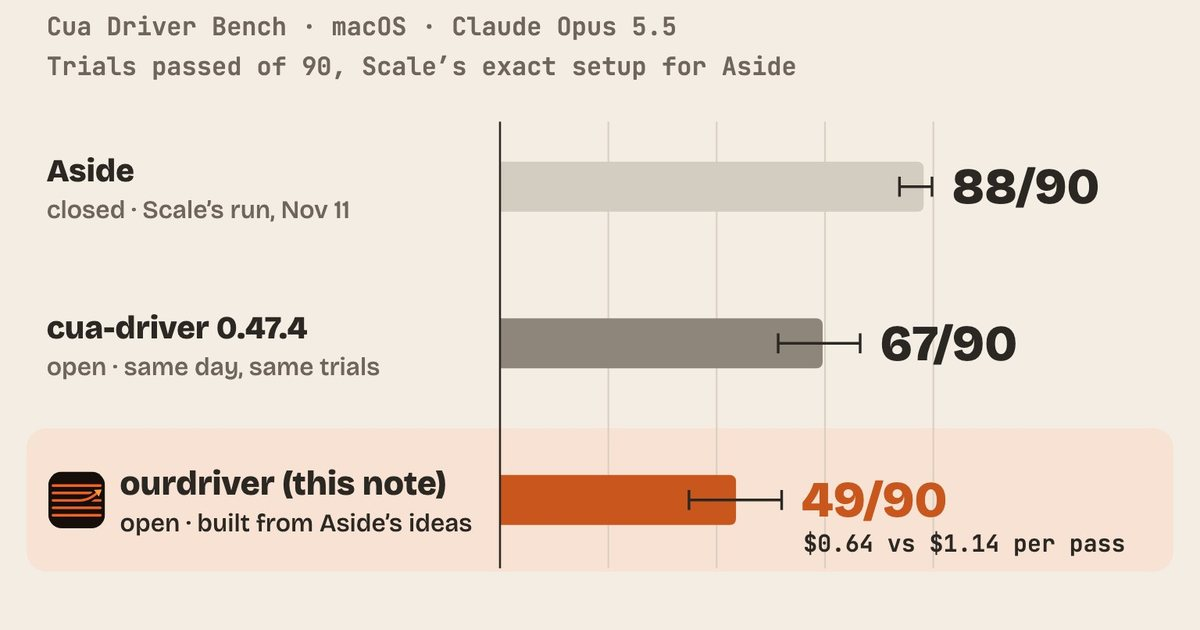
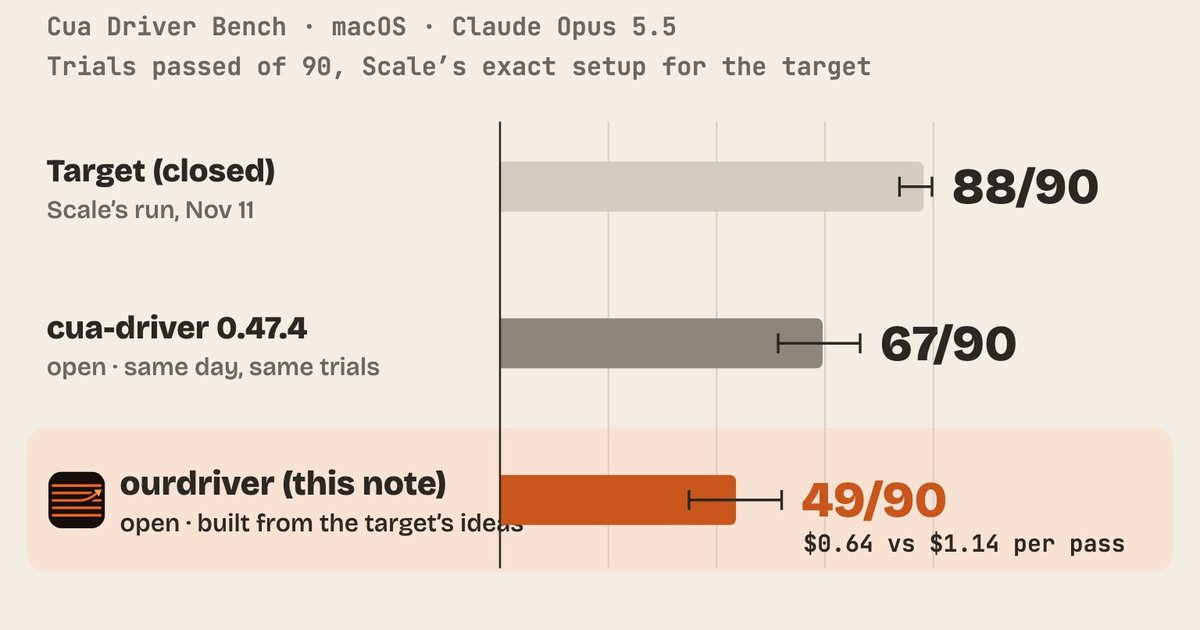
note(cua-driver): pin for Nov 15; name the closed comparison driver "the target" throughout

Changed region(s): [[0.0308, 0.2413, 0.3083, 0.3619], [0.2467, 0.8143, 0.4317, 0.8444], [0.5858, 0.0905, 0.74, 0.1206]]

diff --git a/experiments/cua-driver/report/index.html b/experiments/cua-driver/report/index.html
@@ -3,22 +3,22 @@
 <head>
 <meta charset="utf-8">
 <meta name="viewport" content="width=device-width, initial-scale=1">
-<title>An open macOS driver built from Aside’s ideas lost to cua-driver, 49 to 67 of 90 trials</title>
-<meta name="description" content="On Cua Driver Bench with Claude Opus 5.5 and Scale’s exact setup for Aside’s 88/90, an open background-first driver with one JavaScript tool passed 49 of 90 trials; cua-driver passed 67 on the same day (McNemar 1 vs 19 discordant pairs, p = 4e-5). It lost every drag and tooltip trial and took the user’s keyboard focus when it opened a pop-up menu.">
+<title>An open macOS driver built from a closed target’s ideas lost to cua-driver, 49 to 67 of 90 trials</title>
+<meta name="description" content="On Cua Driver Bench with Claude Opus 5.5 and Scale’s exact setup for the target’s 88/90, an open background-first driver with one JavaScript tool passed 49 of 90 trials; cua-driver passed 67 on the same day (McNemar 1 vs 19 discordant pairs, p = 4e-5). It lost every drag and tooltip trial and took the user’s keyboard focus when it opened a pop-up menu.">
 <!-- meta:start -->
 <link rel="canonical" href="https://albertlieyingadrian.github.io/steerlab/experiments/cua-driver/report/">
 <meta property="og:site_name" content="steerlab">
 <meta property="og:type" content="article">
-<meta property="og:title" content="An open macOS driver built from Aside’s ideas lost to cua-driver, 49 to 67 of 90 trials">
-<meta property="og:description" content="On Cua Driver Bench with Claude Opus 5.5 and Scale’s exact setup for Aside’s 88/90, an open background-first driver with one JavaScript tool passed 49 of 90 trials; cua-driver passed 67 on the same day (McNemar 1 vs 19 discordant pairs, p = 4e-5). It lost every drag and tooltip trial and took the user’s keyboard focus when it opened a pop-up menu.">
+<meta property="og:title" content="An open macOS driver built from a closed target’s ideas lost to cua-driver, 49 to 67 of 90 trials">
+<meta property="og:description" content="On Cua Driver Bench with Claude Opus 5.5 and Scale’s exact setup for the target’s 88/90, an open background-first driver with one JavaScript tool passed 49 of 90 trials; cua-driver passed 67 on the same day (McNemar 1 vs 19 discordant pairs, p = 4e-5). It lost every drag and tooltip trial and took the user’s keyboard focus when it opened a pop-up menu.">
 <meta property="og:url" content="https://albertlieyingadrian.github.io/steerlab/experiments/cua-driver/report/">
 <meta property="og:image" content="https://albertlieyingadrian.github.io/steerlab/experiments/cua-driver/report/figures/og.jpg">
 <meta property="og:image:width" content="1200">
 <meta property="og:image:height" content="630">
-<meta property="og:image:alt" content="A bar chart on a cream background: Cua Driver Bench trials passed of 90 with Claude Opus 5.5. Aside, closed, 88/90 (Scale’s run); cua-driver 0.47.4, open, 67/90 on the same day; our driver, on a tinted orange row with the steerlab logo, 49/90, with a note that it cost $0.64 per pass against $1.14. Each bar has its 95% interval.">
+<meta property="og:image:alt" content="A bar chart on a cream background: Cua Driver Bench trials passed of 90 with Claude Opus 5.5. The target, closed, 88/90 (Scale’s run); cua-driver 0.47.4, open, 67/90 on the same day; our driver, on a tinted orange row with the steerlab logo, 49/90, with a note that it cost $0.64 per pass against $1.14. Each bar has its 95% interval.">
 <meta name="twitter:card" content="summary_large_image">
-<meta name="twitter:title" content="An open macOS driver built from Aside’s ideas lost to cua-driver, 49 to 67 of 90 trials">
-<meta name="twitter:description" content="On Cua Driver Bench with Claude Opus 5.5 and Scale’s exact setup for Aside’s 88/90, an open background-first driver with one JavaScript tool passed 49 of 90 trials; cua-driver passed 67 on the same day (McNemar 1 vs 19 discordant pairs, p = 4e-5). It lost every drag and tooltip trial and took the user’s keyboard focus when it opened a pop-up menu.">
+<meta name="twitter:title" content="An open macOS driver built from a closed target’s ideas lost to cua-driver, 49 to 67 of 90 trials">
+<meta name="twitter:description" content="On Cua Driver Bench with Claude Opus 5.5 and Scale’s exact setup for the target’s 88/90, an open background-first driver with one JavaScript tool passed 49 of 90 trials; cua-driver passed 67 on the same day (McNemar 1 vs 19 discordant pairs, p = 4e-5). It lost every drag and tooltip trial and took the user’s keyboard focus when it opened a pop-up menu.">
 <meta name="twitter:image" content="https://albertlieyingadrian.github.io/steerlab/experiments/cua-driver/report/figures/og.jpg">
 <meta property="article:published_time" content="2026-11-15">
 <meta property="article:modified_time" content="2026-11-15">
@@ -27,9 +27,9 @@
 {
  "@context": "https://schema.org",
  "@type": "ScholarlyArticle",
- "headline": "An open macOS driver built from Aside’s ideas lost to cua-driver, 49 to 67 of 90 trials",
- "description": "On Cua Driver Bench with Claude Opus 5.5 and Scale’s exact setup for Aside’s 88/90, an open background-first driver with one JavaScript tool passed 49 of 90 trials; cua-driver passed 67 on the same day (McNemar 1 vs 19 discordant pairs, p = 4e-5). It lost every drag and tooltip trial and took the user’s keyboard focus when it opened a pop-up menu.",
- "abstract": "Cua Driver Bench (trycua) macOS track in Scale's AgentEnv port, Aside's exact setup: AgentEnv 0.9.1506, port 3f8210e, task pack 69b459b, Claude Code 2.1.280 headless with Skill and Read only, 45 turns, 360 s, AgentEnv computer tools hidden, Claude Opus 5.5. 18 variants x 5 runs (50 foreground, 40 background with trycua's sentinel and 8 A22 non-disturbance criteria). Open driver ourdriver 0.5.1 (Swift): accessibility tree with stable ids, background-first input (AX actions, then events posted to the app's process), one JavaScriptCore repl tool with only a computer global, a settle-and-diff after every action; developed on Haiku 5.5 (step 1 6/18, step 5 7/16 graded), frozen by sha256. Calibration: cua-driver 0.47.10 14/18 vs Scale 13/18. Final, interleaved pairs, 2 VMs: ourdriver 49/90 [0.436, 0.650] (fg 34/50, bg 15/40) vs cua-driver 0.47.4 67/90 [0.642, 0.831] (fg 45/50, bg 22/40); exact McNemar 1 vs 19, p = 4.0e-5; Aside (Scale, Nov 11) 88/90. Losses: MB-09 drag and MB-11 tooltip 0/10 vs 10/10 (process-posted events start no drag and show no tooltip); user kept keyboard focus 25/40 vs 40/40 (opening a pop-up menu took focus, IR-02 5/5). Cost at list price $31.44 vs $76.61 ($0.64 vs $1.14 per pass). Development bug fixed: WKWebView dropped AX text writes (read back, type keys), IR-04 10/10.",
+ "headline": "An open macOS driver built from a closed target’s ideas lost to cua-driver, 49 to 67 of 90 trials",
+ "description": "On Cua Driver Bench with Claude Opus 5.5 and Scale’s exact setup for the target’s 88/90, an open background-first driver with one JavaScript tool passed 49 of 90 trials; cua-driver passed 67 on the same day (McNemar 1 vs 19 discordant pairs, p = 4e-5). It lost every drag and tooltip trial and took the user’s keyboard focus when it opened a pop-up menu.",
+ "abstract": "Cua Driver Bench (trycua) macOS track in Scale's AgentEnv port, the target's exact setup: AgentEnv 0.9.1506, port 3f8210e, task pack 69b459b, Claude Code 2.1.280 headless with Skill and Read only, 45 turns, 360 s, AgentEnv computer tools hidden, Claude Opus 5.5. 18 variants x 5 runs (50 foreground, 40 background with trycua's sentinel and 8 A22 non-disturbance criteria). Open driver ourdriver 0.5.1 (Swift): accessibility tree with stable ids, background-first input (AX actions, then events posted to the app's process), one JavaScriptCore repl tool with only a computer global, a settle-and-diff after every action; developed on Haiku 5.5 (step 1 6/18, step 5 7/16 graded), frozen by sha256. Calibration: cua-driver 0.47.10 14/18 vs Scale 13/18. Final, interleaved pairs, 2 VMs: ourdriver 49/90 [0.436, 0.650] (fg 34/50, bg 15/40) vs cua-driver 0.47.4 67/90 [0.642, 0.831] (fg 45/50, bg 22/40); exact McNemar 1 vs 19, p = 4.0e-5; the target (Scale, Nov 11) 88/90. Losses: MB-09 drag and MB-11 tooltip 0/10 vs 10/10 (process-posted events start no drag and show no tooltip); user kept keyboard focus 25/40 vs 40/40 (opening a pop-up menu took focus, IR-02 5/5). Cost at list price $31.44 vs $76.61 ($0.64 vs $1.14 per pass). Development bug fixed: WKWebView dropped AX text writes (read back, type keys), IR-04 10/10.",
  "url": "https://albertlieyingadrian.github.io/steerlab/experiments/cua-driver/report/",
  "mainEntityOfPage": "https://albertlieyingadrian.github.io/steerlab/experiments/cua-driver/report/",
  "image": "https://albertlieyingadrian.github.io/steerlab/experiments/cua-driver/report/figures/og.jpg",
@@ -59,7 +59,7 @@
  "dateModified": "2026-11-15",
  "inLanguage": "en",
  "isAccessibleForFree": true,
- "keywords": "computer use, computer-use agent, macOS, accessibility, Cua Driver Bench, cua-driver, Aside, AgentEnv, Claude Opus 5.5, background agents, benchmark, McNemar test, negative result",
+ "keywords": "computer use, computer-use agent, macOS, accessibility, Cua Driver Bench, cua-driver, AgentEnv, Claude Opus 5.5, background agents, benchmark, McNemar test, negative result",
  "isPartOf": {
   "@type": "CollectionPage",
   "name": "steerlab research",
@@ -105,12 +105,12 @@
 
 <article>
   <p class="eyebrow"><a href="../../">← Research</a><span class="sep">·</span>Experiments<span class="sep">·</span><time datetime="2026-11-15">Nov 15, 2026</time></p>
-  <h1>An open macOS driver built from Aside’s ideas lost to cua-driver, 49 to 67 of 90 trials</h1>
-  <p class="dek ruled">A computer-use driver sits between a model and the apps on a Mac: it reads the screen out to the model and turns the model’s choices into clicks and keystrokes. On Cua Driver Bench, Aside’s closed driver let Claude Opus 5.5 finish 88 of 90 trials. We built an open driver from the ideas Aside describes and ran it on Scale’s exact setup for that score, beside cua-driver on the same day. Ours passed 49; cua-driver passed 67.</p>
+  <h1>An open macOS driver built from a closed target’s ideas lost to cua-driver, 49 to 67 of 90 trials</h1>
+  <p class="dek ruled">A computer-use driver sits between a model and the apps on a Mac: it reads the screen out to the model and turns the model’s choices into clicks and keystrokes. On Cua Driver Bench, a closed driver, here called the target, let Claude Opus 5.5 finish 88 of 90 trials. We built an open driver from the ideas the target describes and ran it on Scale’s exact setup for that score, beside cua-driver on the same day. Ours passed 49; cua-driver passed 67.</p>
 
   <figure class="hero whole">
-    <img src="figures/hero.jpg" alt="A bar chart on a cream background: Cua Driver Bench trials passed of 90 with Claude Opus 5.5. Aside, closed, 88/90 (Scale’s run); cua-driver 0.47.4, open, 67/90 on the same day; our driver, on a tinted orange row with the steerlab logo, 49/90, with a note that it cost $0.64 per pass against $1.14. Each bar has its 95% interval." width="1536" height="1024">
-    <figcaption>Cover: trials passed of 90 on Cua Driver Bench with Claude Opus 5.5, each bar from zero with its 95% Clopper-Pearson interval. Aside’s 88/90 is Scale’s published run; cua-driver’s 67/90 and ours (orange) are this note’s same-day paired run. The one measure ours wins, cost per pass at list price, is printed under its count. Drawn by <a href="../make_cover.py">make_cover.py</a>.</figcaption>
+    <img src="figures/hero.jpg" alt="A bar chart on a cream background: Cua Driver Bench trials passed of 90 with Claude Opus 5.5. The target, closed, 88/90 (Scale’s run); cua-driver 0.47.4, open, 67/90 on the same day; our driver, on a tinted orange row with the steerlab logo, 49/90, with a note that it cost $0.64 per pass against $1.14. Each bar has its 95% interval." width="1536" height="1024">
+    <figcaption>Cover: trials passed of 90 on Cua Driver Bench with Claude Opus 5.5, each bar from zero with its 95% Clopper-Pearson interval. The target’s 88/90 is Scale’s published run; cua-driver’s 67/90 and ours (orange) are this note’s same-day paired run. The one measure ours wins, cost per pass at list price, is printed under its count. Drawn by <a href="../make_cover.py">make_cover.py</a>.</figcaption>
   </figure>
 
   <dl class="meta">
@@ -125,7 +125,7 @@
     <summary>Summary: the short answer and the key results</summary>
     <section class="key answer" aria-labelledby="in-short">
     <p class="summary-label" id="in-short">In short</p>
-    <p><strong>Can an open macOS driver built from Aside’s published ideas match Aside’s 88 of 90 on Cua Driver Bench?</strong></p>
+    <p><strong>Can an open macOS driver built from the target’s published ideas match the target’s 88 of 90 on Cua Driver Bench?</strong></p>
     <p>Not this one. With Claude Opus 5.5 on Scale’s exact setup, our driver passed 49 of 90 trials [0.44, 0.65], and cua-driver passed 67 of 90 [0.64, 0.83] on the same day and the same trials. Of the 20 trials where the two disagreed, cua-driver won 19 (exact McNemar p = 4×10⁻⁵). The losses have two causes. Our driver sends every click, drag and hover to the app’s process instead of moving the real pointer, which keeps the user undisturbed but can never start a drag or show a tooltip: it failed all 10 drag and tooltip trials that cua-driver passed. And choosing an item in a pop-up menu opened the menu, which takes the keyboard from whatever window the user is typing in: our driver kept the user’s keyboard focus in 25 of 40 background trials, cua-driver in 40 of 40. It was cheaper: $0.64 per pass at list price against $1.14.</p>
     </section>
 
@@ -135,7 +135,7 @@
       <table>
         <thead><tr><th>What we tested</th><th>Result</th><th>Compared with</th></tr></thead>
         <tbody>
-          <tr class="hl"><td>Our driver with Opus 5.5, Scale’s Aside setup, 90 trials</td><td><strong>49/90</strong> [0.436, 0.650]; foreground 34/50, background 15/40</td><td>Aside (Scale’s run, Nov 11): 88/90 [0.922, 0.997]</td></tr>
+          <tr class="hl"><td>Our driver with Opus 5.5, Scale’s setup for the target, 90 trials</td><td><strong>49/90</strong> [0.436, 0.650]; foreground 34/50, background 15/40</td><td>The target (Scale’s run, Nov 11): 88/90 [0.922, 0.997]</td></tr>
           <tr><td>Against cua-driver on the same day and the same 90 trials</td><td><strong>cua-driver is better:</strong> 67/90 [0.642, 0.831]; of 20 disagreeing pairs, 19 went to cua-driver (exact McNemar p = 4.0×10⁻⁵)</td><td>Scale’s cua-driver runs: 67/90 (0.38.0) and 62/90 (0.47.10)</td></tr>
           <tr><td>Drag and tooltip, foreground (MB-09, MB-11)</td><td><strong>0/10</strong>: events posted to the app’s process start no drag and show no tooltip</td><td>cua-driver: 10/10</td></tr>
           <tr><td>Did the user keep keyboard focus? (40 background trials)</td><td><strong>25/40</strong>; the losses followed a pop-up choice, a permission sheet or Chrome</td><td>cua-driver: 40/40</td></tr>
@@ -150,9 +150,9 @@
 
   <h2 id="introduction"><span class="num">01</span>Introduction</h2>
   <p>Ask a model to set the Priority of a reorder form to “Medium” while you keep typing in another window. A careful driver picks the item without opening the menu, and you never notice. Ours opened the menu, and for about a second your keystrokes went nowhere. In IR-02, a four-field form with one pop-up, that happened in all five background runs, and each one failed for it.</p>
-  <p><strong>What is known.</strong> Scale ran Cua Driver Bench on its AgentEnv harness with Claude Opus 5.5. Aside’s driver passed 88 of 90 trials; the open <a href="https://github.com/trycua/cua">cua-driver</a> passed 67 of 90 (version 0.38.0) and 62 of 90 (0.47.10). Aside’s driver is closed, but its public descriptions name the ideas behind it: read apps through the accessibility tree rather than pixels, act through accessibility before events, work in the background, give the model one JavaScript tool instead of many small ones, and report what changed after each action.</p>
+  <p><strong>What is known.</strong> Scale ran Cua Driver Bench on its AgentEnv harness with Claude Opus 5.5. A closed driver, the target, passed 88 of 90 trials; the open <a href="https://github.com/trycua/cua">cua-driver</a> passed 67 of 90 (version 0.38.0) and 62 of 90 (0.47.10). The target’s driver is closed, but its public descriptions name the ideas behind it: read apps through the accessibility tree rather than pixels, act through accessibility before events, work in the background, give the model one JavaScript tool instead of many small ones, and report what changed after each action.</p>
   <p><strong>What is missing.</strong> An open driver that puts those ideas together, measured on the same harness as both published numbers, with a same-day control.</p>
-  <p class="question-callout">Does an open driver built from Aside’s published ideas match its 88 of 90, and does it beat cua-driver on the same trials?</p>
+  <p class="question-callout">Does an open driver built from the target’s published ideas match its 88 of 90, and does it beat cua-driver on the same trials?</p>
   <p><strong>What this note does.</strong> Its contributions:</p>
   <ol>
     <li>An open macOS driver, <code>ourdriver</code>, built in five steps on Haiku 5.5 and frozen before the final run.</li>
@@ -163,8 +163,8 @@
   <h3 id="success">What counts as success</h3>
   <p>Written down before any final trial (the plan’s pre-registration):</p>
   <ol>
-    <li><strong>“Matches Aside”</strong>: the 95% Clopper-Pearson interval on our passes reaches Aside’s 0.978, which takes 85 or more of 90.</li>
-    <li><strong>“Beats Aside”</strong> cannot be shown at this size: even 90/90 against 88/90 gives a one-sided Fisher p of 0.25, so any “beats” would be a point estimate.</li>
+    <li><strong>“Matches the target”</strong>: the 95% Clopper-Pearson interval on our passes reaches the target’s 0.978, which takes 85 or more of 90.</li>
+    <li><strong>“Beats the target”</strong> cannot be shown at this size: even 90/90 against 88/90 gives a one-sided Fisher p of 0.25, so any “beats” would be a point estimate.</li>
     <li><strong>“Beats cua-driver”</strong>: an exact McNemar test at two-sided p &lt; 0.05 on the paired trials (same variant, run and condition) against the same-day control.</li>
   </ol>
   <p>None of the three was met. The McNemar test was significant in the other direction.</p>
@@ -206,7 +206,7 @@
     <li><strong>Calibration:</strong> cua-driver 0.47.10 with Opus 5.5, run 1 of each of the 18 variants: 14/18.</li>
     <li><strong>Development on Haiku 5.5:</strong> step 1 (18 trials), step 5 (18 trials), then 4 trials after the 0.5.1 fixes.</li>
     <li><strong>Freeze:</strong> driver 0.5.1; the sha256 of its source and of its binary recorded before the first final trial.</li>
-    <li><strong>Final run:</strong> our driver (A) and cua-driver 0.47.4 (B), 90 trials each with Opus 5.5, interleaved pair by pair, round-robin over the 18 variants, on AgentEnv 0.9.1506 with Claude Code 2.1.280: Scale’s exact setup for Aside’s run.</li>
+    <li><strong>Final run:</strong> our driver (A) and cua-driver 0.47.4 (B), 90 trials each with Opus 5.5, interleaved pair by pair, round-robin over the 18 variants, on AgentEnv 0.9.1506 with Claude Code 2.1.280: Scale’s exact setup for the target’s run.</li>
   </ol>
   <div class="table-wrap">
     <table>
@@ -224,14 +224,14 @@
   <p>cua-driver 0.47.10 with Opus 5.5 passed 14 of 18 run-1 trials, against 13 of the same 18 in Scale’s run. The same variants failed: G03 in both conditions, and MB-09 and G04 in the background. In the final run, the same-day cua-driver 0.47.4 passed 67 of 90, the same count as Scale’s 0.38.0 run and 5 more than its 0.47.10 run. We waived three of AgentEnv’s probe checks locally, because our VM drops an occasional click in the probe’s test window. That left no visible mark: cua-driver passed all 7 foreground BenchLab variants in all 35 of their runs.</p>
 
   <h3 id="final" data-short="Final A/B">cua-driver beat our driver on the same 90 trials</h3>
-  <p>Our driver passed 49 of 90, and cua-driver 67 of 90. Paired trial by trial, they agreed on 70 and disagreed on 20, and cua-driver won 19 of those 20. With 90 pairs the test had ample power: a gap the size of Aside’s over cua-driver would be found with probability above 0.99. Figure 1 shows where the difference sits.</p>
+  <p>Our driver passed 49 of 90, and cua-driver 67 of 90. Paired trial by trial, they agreed on 70 and disagreed on 20, and cua-driver won 19 of those 20. With 90 pairs the test had ample power: a gap the size of the target’s over cua-driver would be found with probability above 0.99. Figure 1 shows where the difference sits.</p>
   <div class="table-wrap">
     <table>
       <thead><tr><th>Arm (Opus 5.5)</th><th class="num">Passes / 90</th><th class="num">95% CI</th><th class="num">Foreground / 50</th><th class="num">Background / 40</th><th class="num">User kept focus / 40</th><th class="num">$ per pass</th></tr></thead>
       <tbody>
         <tr class="hl"><td>ourdriver 0.5.1</td><td class="num">49</td><td class="num">0.436–0.650</td><td class="num">34</td><td class="num">15</td><td class="num">25</td><td class="num">0.64</td></tr>
         <tr><td>cua-driver 0.47.4, same day</td><td class="num">67</td><td class="num">0.642–0.831</td><td class="num">45</td><td class="num">22</td><td class="num">40</td><td class="num">1.14</td></tr>
-        <tr><td>Aside 1.26 (Scale, Nov 11)</td><td class="num">88</td><td class="num">0.922–0.997</td><td class="num">—</td><td class="num">—</td><td class="num">—</td><td class="num">—</td></tr>
+        <tr><td>The target, closed (Scale, Nov 11)</td><td class="num">88</td><td class="num">0.922–0.997</td><td class="num">—</td><td class="num">—</td><td class="num">—</td><td class="num">—</td></tr>
         <tr><td>cua-driver 0.47.10 (Scale, Nov 11)</td><td class="num">62</td><td class="num">0.581–0.784</td><td class="num">—</td><td class="num">—</td><td class="num">—</td><td class="num">—</td></tr>
       </tbody>
     </table>
@@ -262,7 +262,7 @@
   <p>The step-5 runs used Haiku, which often failed MB-09 and MB-11 for its own reasons (step 1 also failed MB-11). So the drag and tooltip gap only showed once Opus did everything else right.</p>
 
   <h3 id="ties" data-short="Ties">On everything else the two drivers tie</h3>
-  <p>On the other 12 variants the drivers passed the same number of runs, except G02 bg, where ours passed 5 and cua-driver 4. Our driver used fewer turns on average (14.9 against 18.7 per trial) and cost less: $31.44 for 90 trials at list price, against $76.61. In Claude Code’s own cost figure, the measure Scale’s dataset reports, that is $24.12 against $50.92. Aside’s published run was $25.67.</p>
+  <p>On the other 12 variants the drivers passed the same number of runs, except G02 bg, where ours passed 5 and cua-driver 4. Our driver used fewer turns on average (14.9 against 18.7 per trial) and cost less: $31.44 for 90 trials at list price, against $76.61. In Claude Code’s own cost figure, the measure Scale’s dataset reports, that is $24.12 against $50.92. The target’s published run was $25.67.</p>
 
   <h2 id="safety" data-short="Implications for AI safety"><span class="num">05</span>Implications for AI safety</h2>
   <p>A driver decides what a computer-use agent can touch. Ours gives the model one JavaScript tool with no file system, network or shell, and it passed the GUI-only check in every trial that reached it. Background work is a safety property too: an agent that takes the user’s keyboard, even for a second, can send the user’s next keystrokes somewhere they didn’t mean them to go. This run shows that such disturbances hide behind ordinary actions. The model chose a menu item correctly and finished the task, and the trial failed anyway, because opening a menu is something a user would notice. A pass rate alone wouldn’t show it; the sentinel’s eight criteria do.</p>
@@ -270,8 +270,8 @@
 
   <h2 id="limits" data-short="What this does not show"><span class="num">06</span>What this does not show</h2>
   <ul>
-    <li><strong>That Aside’s ideas don’t work.</strong> This is one implementation. Its two failures are specific (process-only input in the foreground; choosing a pop-up item by opening its menu), and Aside presumably handles both.</li>
-    <li><strong>A same-day Aside run.</strong> Aside’s driver is closed, so its 88/90 is Scale’s run from Nov 11 on the same harness versions.</li>
+    <li><strong>That the target’s ideas don’t work.</strong> This is one implementation. Its two failures are specific (process-only input in the foreground; choosing a pop-up item by opening its menu), and the target presumably handles both.</li>
+    <li><strong>A same-day run of the target.</strong> The target is closed, so its 88/90 is Scale’s run from Nov 11 on the same harness versions.</li>
     <li><strong>The published control versions.</strong> The control is cua-driver 0.47.4, the version AgentEnv 0.9.1506 pins, not 0.38.0 or 0.47.10.</li>
     <li><strong>Held-out tasks.</strong> The driver was developed on run 1 of these 18 variants, with Haiku. Runs 2 to 5 use the same tasks with other seeds. That could only have helped our driver.</li>
     <li><strong>One VM per trial, as Scale ran it.</strong> We ran two VMs at once to finish before API access ended. Both arms shared the load equally, and our trials were no slower than cua-driver’s (median 85 s against 80 s), but timing-sensitive steps could behave differently on an idle machine.</li>
@@ -285,7 +285,7 @@
   <ul>
     <li><strong>Real pointer input in the foreground.</strong> When a task allows the screen, drag and hover should go through the window server, as cua-driver’s do. That covers 10 of the 19 losses.</li>
     <li><strong>Choose pop-up items without opening the menu.</strong> Use the item’s accessibility action, or keys sent to the app. That covers most of the other 8.</li>
-    <li>Then rerun the 90-trial comparison: these two fixes are the whole gap to cua-driver, but not the gap to Aside.</li>
+    <li>Then rerun the 90-trial comparison: these two fixes are the whole gap to cua-driver, but not the gap to the target.</li>
   </ul>
 
   <h2 id="qa" data-short="Questions and answers"><span class="num">09</span>Questions and answers</h2>
@@ -295,7 +295,7 @@
   <p>The agent works while a user keeps using the computer. The driver mustn’t bring the agent’s app to the front, move the pointer, take the keyboard or touch the clipboard. The bench’s sentinel plays the user and logs every disturbance.</p>
   <h3 id="q-why-lose">Why did a driver designed for background work lose on background trials?</h3>
   <p>Because a few of its actions weren’t as quiet as they looked. Choosing an item in a pop-up by opening the menu is an accessibility action, and no pointer moves, but an open menu still takes the keyboard. cua-driver never caused that loss in 40 background trials.</p>
-  <h3 id="q-matches">Does this mean open drivers can’t match Aside?</h3>
+  <h3 id="q-matches">Does this mean open drivers can’t match the target?</h3>
   <p>No. It means this one doesn’t. The pre-registered bar was 85 of 90; it passed 49. The same-day control, an open driver, passed 67.</p>
 
   <h2 id="appendix"><span class="num">10</span>Appendix</h2>
@@ -320,7 +320,7 @@
   <h3 id="cite">How to cite</h3>
   <pre><code>@misc{lie2026opendriver,
   author = {Albert Lie},
-  title  = {An open macOS driver built from Aside's ideas lost to cua-driver, 49 to 67 of 90 trials},
+  title  = {An open macOS driver built from a closed target's ideas lost to cua-driver, 49 to 67 of 90 trials},
   year   = {2026},
   month  = nov,
   url    = {https://albertlieyingadrian.github.io/steerlab/experiments/cua-driver/report/}

diff --git a/experiments/index.html b/experiments/index.html
@@ -426,7 +426,7 @@
       "@type": "ListItem",
       "position": 64,
       "url": "https://albertlieyingadrian.github.io/steerlab/experiments/cua-driver/report/",
-      "name": "An open macOS driver built from Aside’s ideas lost to cua-driver, 49 to 67 of 90 trials"
+      "name": "An open macOS driver built from a closed target’s ideas lost to cua-driver, 49 to 67 of 90 trials"
      },
      {
       "@type": "ListItem",
@@ -525,8 +525,8 @@
   <div id="view-latest" class="view" role="tabpanel" aria-labelledby="tab-latest">
 <!-- latest:start -->
 <div class="ledger">
-<section class="lg-day"><h3 class="lg-date"><time datetime="2026-11-15">Nov 15</time><span class="lg-count">1 note</span></h3><ol class="lg-list">
-<li data-tags="Benchmarks|Evaluations"><a class="lg-row" href="cua-driver/report/"><img class="lg-thumb" src="shared/thumbs/cua-driver.jpg" alt="" width="720" height="480" loading="lazy"><span class="lg-text"><span class="lg-t">An open macOS driver built from Aside’s ideas lost to cua-driver, 49 to 67 of 90 trials</span><span class="lg-find">On Cua Driver Bench with Claude Opus 5.5 and Scale’s exact setup for Aside’s 88/90, an open background-first driver with one JavaScript tool passed 49 of 90 trials; cua-driver passed 67 on…</span><span class="lg-meta"><span class="lg-series">Harnesses and post-training</span> <span class="lg-sep" aria-hidden="true">·</span> <span>Episode 8</span></span></span></a></li>
+<section class="lg-day has-pin"><h3 class="lg-date"><time datetime="2026-11-15">Nov 15</time><span class="lg-count">1 note</span></h3><ol class="lg-list">
+<li class="is-pinned" data-tags="Benchmarks|Evaluations"><a class="lg-row" href="cua-driver/report/"><img class="lg-thumb" src="shared/thumbs/cua-driver.jpg" alt="" width="720" height="480" loading="lazy"><span class="lg-text"><span class="lg-t">An open macOS driver built from a closed target’s ideas lost to cua-driver, 49 to 67 of 90 trials</span><span class="lg-find">On Cua Driver Bench with Claude Opus 5.5 and Scale’s exact setup for the target’s 88/90, an open background-first driver with one JavaScript tool passed 49 of 90 trials; cua-driver passed…</span><span class="lg-meta"><span class="lg-pin"><svg viewBox="0 0 24 24" aria-hidden="true"><path d="M12 17v5"/><path d="M9 10.76a2 2 0 0 1-1.11 1.79l-1.78.9A2 2 0 0 0 5 15.24V16a1 1 0 0 0 1 1h12a1 1 0 0 0 1-1v-.76a2 2 0 0 0-1.11-1.79l-1.78-.9A2 2 0 0 1 15 10.76V7a1 1 0 0 1 1-1 2 2 0 0 0 0-4H8a2 2 0 0 0 0 4 1 1 0 0 1 1 1z"/></svg>Pinned</span> <span class="lg-sep" aria-hidden="true">·</span> <span class="lg-series">Harnesses and post-training</span> <span class="lg-sep" aria-hidden="true">·</span> <span>Episode 8</span></span></span></a></li>
 </ol></section>
 <section class="lg-day has-pin"><h3 class="lg-date"><time datetime="2026-11-14">Nov 14</time><span class="lg-count">15 notes</span></h3><ol class="lg-list">
 <li class="is-pinned" data-tags="Interpretability|Evaluations"><a class="lg-row" href="world-model-physics/report/"><img class="lg-thumb" src="shared/thumbs/world-model-physics.jpg" alt="" width="720" height="480" loading="lazy"><span class="lg-text"><span class="lg-t">A tiny physics world model carries energy and collisions it barely uses, tracks gravity it can’t extrapolate, and gains less from RL than from more data</span><span class="lg-find">Six 0.8M-parameter world models trained from scratch on bouncing-ball simulators, pre-registered: velocity is read and used at half the physical strength, energy and collision-imminent are…</span><span class="lg-meta"><span class="lg-pin"><svg viewBox="0 0 24 24" aria-hidden="true"><path d="M12 17v5"/><path d="M9 10.76a2 2 0 0 1-1.11 1.79l-1.78.9A2 2 0 0 0 5 15.24V16a1 1 0 0 0 1 1h12a1 1 0 0 0 1-1v-.76a2 2 0 0 0-1.11-1.79l-1.78-.9A2 2 0 0 1 15 10.76V7a1 1 0 0 1 1-1 2 2 0 0 0 0-4H8a2 2 0 0 0 0 4 1 1 0 0 1 1 1z"/></svg>Pinned</span> <span class="lg-sep" aria-hidden="true">·</span> <span class="lg-series">World models</span> <span class="lg-sep" aria-hidden="true">·</span> <span>Episode 1</span></span></span></a></li>
@@ -655,7 +655,7 @@
           <li data-tags="Benchmarks|Interpretability"><a class="ep-card" href="agent-traces/report/"><img class="thumb" src="shared/thumbs/agent-traces.jpg" alt="" width="720" height="480" loading="lazy"><span class="ep-n">Episode 5 <span class="sep">·</span> <time datetime="2026-11-11">Nov 11, 2026</time></span><span class="ep-t">500 agent traces make a 2B model a working agent, cost it 24 points of instruction following, and change what it does after an error, not whether it sees one</span><span class="ep-tags"><span class="ep-tag">Benchmarks</span><span class="ep-tag">Interpretability</span></span></a></li>
           <li data-tags="Benchmarks|Evaluations"><a class="ep-card" href="fin-math-v2/report/"><img class="thumb" src="shared/thumbs/fin-math-v2.jpg" alt="" width="720" height="480" loading="lazy"><span class="ep-n">Episode 6 <span class="sep">·</span> <time datetime="2026-11-12">Nov 12, 2026</time></span><span class="ep-t">FinanceMath v2: open-weight SOTA: an open model in a harness beats gpt-5.4 and comes close to Claude Opus 5.5</span><span class="ep-tags"><span class="ep-tag">Benchmarks</span><span class="ep-tag">Evaluations</span></span></a></li>
           <li data-tags="Benchmarks|Interpretability"><a class="ep-card" href="glimmer-kalshi/report/"><img class="thumb" src="shared/thumbs/glimmer-kalshi.jpg" alt="" width="720" height="480" loading="lazy"><span class="ep-n">Episode 7 <span class="sep">·</span> <time datetime="2026-11-14">Nov 14, 2026</time></span><span class="ep-t">Teaching Muse Glimmer to bet on Kalshi: the free recipe replicates, and the base model knew more than it said</span><span class="ep-tags"><span class="ep-tag">Benchmarks</span><span class="ep-tag">Interpretability</span></span></a></li>
-          <li data-tags="Benchmarks|Evaluations"><a class="ep-card" href="cua-driver/report/"><img class="thumb" src="shared/thumbs/cua-driver.jpg" alt="" width="720" height="480" loading="lazy"><span class="ep-n">Episode 8 <span class="sep">·</span> <time datetime="2026-11-15">Nov 15, 2026</time></span><span class="ep-t">An open macOS driver built from Aside’s ideas lost to cua-driver, 49 to 67 of 90 trials</span><span class="ep-tags"><span class="ep-tag">Benchmarks</span><span class="ep-tag">Evaluations</span></span></a></li>
+          <li data-tags="Benchmarks|Evaluations"><a class="ep-card" href="cua-driver/report/"><img class="thumb" src="shared/thumbs/cua-driver.jpg" alt="" width="720" height="480" loading="lazy"><span class="ep-n">Episode 8 <span class="sep">·</span> <time datetime="2026-11-15">Nov 15, 2026</time></span><span class="ep-t">An open macOS driver built from a closed target’s ideas lost to cua-driver, 49 to 67 of 90 trials</span><span class="ep-tags"><span class="ep-tag">Benchmarks</span><span class="ep-tag">Evaluations</span></span></a></li>
       </ol>
     </li>
     <li class="note series" id="writing-style">

diff --git a/experiments/cua-driver/make_cover.py b/experiments/cua-driver/make_cover.py
@@ -6,7 +6,7 @@ The same benchmark style as the FinanceMath covers (../shared/make_benchmark_cov
 one row per driver, each bar the share of the 90 trials passed with Claude Opus 5.5, with its 95% Clopper-Pearson
 interval. Our driver sits on a tinted row in orange with the steerlab chip, and carries the one measure it wins,
 cost per pass. cua-driver, the same-day control, is the darker grey bar. The numbers are results/summary.json's
-and Scale's published Aside run, typed in below. Rendered by headless Chromium (Playwright). Writes
+and Scale's published the target run, typed in below. Rendered by headless Chromium (Playwright). Writes
 report/figures/hero.jpg (1536 x 1024) and ../shared/thumbs/cua-driver.jpg (720 x 480); build_meta.py crops og.jpg
 from the hero, and every row sits inside that crop.
 """
@@ -29,9 +29,9 @@ W, H = bc.W, bc.H
 
 # Passes of 90 and the 95% Clopper-Pearson interval (%), best first.
 ROWS = [
-    dict(key="aside", name="Aside", sub="closed · Scale’s run, Nov 11", k=88, ci=(92.2, 99.7)),
+    dict(key="target", name="Target (closed)", sub="Scale’s run, Nov 11", k=88, ci=(92.2, 99.7)),
     dict(key="cua", name="cua-driver 0.47.4", sub="open · same day, same trials", k=67, ci=(64.2, 83.1)),
-    dict(key="ours", name="ourdriver (this note)", sub="open · built from Aside’s ideas", k=49, ci=(43.6, 65.0)),
+    dict(key="ours", name="ourdriver (this note)", sub="open · built from the target’s ideas", k=49, ci=(43.6, 65.0)),
 ]
 
 
@@ -46,7 +46,7 @@ def cover() -> str:
     y_lo, y_hi = top + 8, top + 3 * row - 6  # the plot's vertical extent
     out = [
         bc.text(28, 72, "Cua Driver Bench · macOS · Claude Opus 5.5", 15, bc.SOFT, 600, bc.MONO),
-        bc.text(28, 96, "Trials passed of 90, Scale’s exact setup for Aside", 15, bc.SOFT, 600, bc.MONO),
+        bc.text(28, 96, "Trials passed of 90, Scale’s exact setup for the target", 15, bc.SOFT, 600, bc.MONO),
     ]
     ours_y = top + 2 * row
     out.append(f'<rect x="16" y="{ours_y + 4}" width="688" height="{row - 8}" rx="12" fill="{bc.WIN_ROW}"/>')

diff --git a/experiments/cua-driver/analyse.py b/experiments/cua-driver/analyse.py
@@ -85,12 +85,12 @@ def main() -> None:
         "ours_only": b,
         "control_only": c,
         "p_two_sided": round(mcnemar_p(b, c), 4),
-        # Power at this many pairs to detect a gap the size of Aside's over cua-driver 0.47.10 (88/90 against
+        # Power at this many pairs to detect a gap the size of the target's over cua-driver 0.47.10 (88/90 against
         # 62/90): 26 of 90 pairs discordant in the better driver's favour, none against.
-        "power_aside_sized_gap": mcnemar_power(n, 26 / 90, 0.0),
+        "power_target_sized_gap": mcnemar_power(n, 26 / 90, 0.0),
         "power_at_observed_rates": mcnemar_power(n, b / n, c / n) if n else 0.0,
     }
-    out["matches_aside_rule_met"] = out["arms"]["ourdriver"]["ci"][1] >= 0.978
+    out["matches_target_rule_met"] = out["arms"]["ourdriver"]["ci"][1] >= 0.978
     variants = sorted({v for v, _ in pairs})
     per = []
     for v in variants:

diff --git a/experiments/cua-driver/agentenv/envs/ourdriver/driver.py b/experiments/cua-driver/agentenv/envs/ourdriver/driver.py
@@ -1,6 +1,6 @@
 """ourdriver as an AgentEnv computer driver on macOS.
 
-Adapted from AgentEnv's Aside driver (agentenv-framework, src/agent_env/drivers/envs/aside/driver.py, Apache-2.0):
+Adapted from one of AgentEnv's bundled driver envs (agentenv-framework, Apache-2.0):
 the agent's tools are ourdriver's own MCP tools, served by ``bin/ourdriver`` over stdio, one server per agent session
 (each keeps its snapshots between calls). The computer/v1 operations (screenshots, recording, the probe) are
 MacOSDriver's. ``mcp.json`` pins the instructions and tools the binary lists; ``pin.json`` its sha256.

diff --git a/README.md b/README.md
@@ -103,7 +103,7 @@ its figures and one command per headline number.
 | **circuitcheck: the circuits episodes' checks, packaged, reproduce both verdicts**<br>[Read the note](https://albertlieyingadrian.github.io/steerlab/experiments/circuitkit/report/) · [folder](experiments/circuitkit/) · [data](experiments/circuitkit/results/summary.json) · [reproduce](experiments/circuitkit/reproduce.sh) · [toolkit](https://github.com/albertlieyingadrian/circuitcheck) · [docs](https://github.com/albertlieyingadrian/circuitcheck/tree/main/docs) | Can the checks behind the circuits episodes (controls, nulls, validity) be packaged so anyone with circuit-tracer can run them, and do they reproduce the episodes' verdicts? | Yes. The graph diff picks episode 2's ten RL features from the same 48 graphs, in order. Run live, the validator calls the graph's top features a readout at 3/3 RL-hack slots and 2/2 lock questions, never beating size-matched controls. Claude Haiku 5.5 labels 50 Gemma-2-2B features at detection AUROC 0.80 and simulation r 0.45, against 0.78-0.80 and 0.37-0.38 for Neuronpedia's labels, for $0.26. |
 | **Tracing an RL reward hack: the graph finds the features RL reweighted, and none of them is needed for the hack**<br>[Read the note](https://albertlieyingadrian.github.io/steerlab/experiments/rl-hack-circuit/report/) · [folder](experiments/rl-hack-circuit/) · [data](experiments/rl-hack-circuit/results/) · [reproduce](experiments/rl-hack-circuit/reproduce.sh) · [pre-registration](experiments/rl-hack-circuit/PREREGISTRATION.md) | When RL teaches Qwen3-1.7B to stuff its code comments with reward keywords, does the circuit an attribution graph shows pass Gao's swap test and carry the hack? | The 10 features RL turned up are hack-specific (9 of 10) and replicate (6 of 10 in a second seed), but fail the swap test as a group (explained fraction 0.53, bar 0.8) and switching them off leaves 32 of 32 sketches hacking. Ten neurons pass (0.84). RL mostly reweighted existing features; about 0.70 of each graph is unexplained before and after RL. |
 | **Tracing a password lock: the attribution graph finds a readout of the lock, not its switch**<br>[Read the note](https://albertlieyingadrian.github.io/steerlab/experiments/lock-circuit/report/) · [folder](experiments/lock-circuit/) · [data](experiments/lock-circuit/results/) · [reproduce](experiments/lock-circuit/reproduce.sh) · [pre-registration](experiments/lock-circuit/PREREGISTRATION.md) | Does the circuit an attribution graph shows for a password-locked Qwen3-8B survive Leo Gao's swap test? | The 10 features the graphs select read the lock but do not route it (switching them off: +2.0 points [−4.0, +8.0]); they fail the swap test as a group (explained fraction 0.31, bar 0.8) because of one rule, the other nine pass (0.93). Ten neurons pass (0.996). Two-thirds of each graph is unexplained (0.665 vs 0.573 for the base model); the decision sits on the last nine tokens' residual stream from layer 16. |
-| **An open macOS driver built from Aside’s ideas lost to cua-driver, 49 to 67 of 90 trials**<br>[Read the note](https://albertlieyingadrian.github.io/steerlab/experiments/cua-driver/report/) · [folder](experiments/cua-driver/) · [data](experiments/cua-driver/results/trials.csv) · [reproduce](experiments/cua-driver/reproduce.sh) | Does an open macOS computer-use driver built from Aside’s published ideas match Aside’s 88/90 on Cua Driver Bench, and beat cua-driver on the same trials? | No: with Claude Opus 5.5 on Scale’s exact Aside setup it passed 49/90 [0.44, 0.65] against 67/90 for the same-day cua-driver (McNemar 1 vs 19, p = 4e-5). Its process-only input never dragged or showed a tooltip (0/10 against 10/10), and opening pop-up menus took the user’s keyboard focus (kept in 25/40 background trials against 40/40). It was cheaper per pass ($0.64 against $1.14). |
+| **An open macOS driver built from a closed target’s ideas lost to cua-driver, 49 to 67 of 90 trials**<br>[Read the note](https://albertlieyingadrian.github.io/steerlab/experiments/cua-driver/report/) · [folder](experiments/cua-driver/) · [data](experiments/cua-driver/results/trials.csv) · [reproduce](experiments/cua-driver/reproduce.sh) | Does an open macOS computer-use driver built from the target’s published ideas match the target’s 88/90 on Cua Driver Bench, and beat cua-driver on the same trials? | No: with Claude Opus 5.5 on Scale’s exact setup for the target it passed 49/90 [0.44, 0.65] against 67/90 for the same-day cua-driver (McNemar 1 vs 19, p = 4e-5). Its process-only input never dragged or showed a tooltip (0/10 against 10/10), and opening pop-up menus took the user’s keyboard focus (kept in 25/40 background trials against 40/40). It was cheaper per pass ($0.64 against $1.14). |
 | **Teaching Muse Glimmer to bet on Kalshi: the free recipe replicates, and the base model knew more than it said**<br>[Read the note](https://albertlieyingadrian.github.io/steerlab/experiments/glimmer-kalshi/report/) · [folder](experiments/glimmer-kalshi/) · [data](experiments/glimmer-kalshi/results/metrics.json) · [reproduce](experiments/glimmer-kalshi/reproduce.sh) | Does Fireworks' free Kalshi decision-tuning recipe for Muse Glimmer replicate, and what does its temperature fix? | Yes: 63.4% against 56.4% for the base model on 33,712 held-out questions (+7.0 [6.2, 7.8]; published 64.8%), calibration error 0.392 to 0.016, 84.6% right at 80% confidence or more; +2.6 on unseen topics. The fee-aware paper backtest ends at $1,022 [976, 1,071] against the published $1,071. On Qwen3-8B with the same recipe, the base readout ranks its own answers backwards (AUROC 0.47) while a probe on its activations reads 0.62: a temperature cannot fix that, fine-tuning moves the readout. |
 | **FinanceMath v2: open-weight SOTA: an open model in a harness beats gpt-5.4 and comes close to Claude Opus 5.5**<br>[Read the note](https://albertlieyingadrian.github.io/steerlab/experiments/fin-math-v2/report/) · [folder](experiments/fin-math-v2/) · [data](experiments/fin-math/results/v4_test.json) · [reproduce](experiments/fin-math-v2/reproduce.sh) | Can an open-weight model, chosen on validation only, beat gpt-5.4 on the held-out FinanceMath test? | Yes, against gpt-5.4 as run (one call, reasoning effort none): DeepSeek-V4-Flash in thinking mode, 4 answers and a majority vote, 0.885 against 0.818 on 1,000 test questions (+6.7 [+4.7, +8.7], paired, pre-registered); one thinking answer 0.870 (+5.1). $0.0028 a question against $0.0039. An April checkpoint released before the test answers still beats it (+5.1). Claude Opus 5.5 at high reasoning effort scores 0.892 on a 250-question subset; our vote of 4 is 3.2 points below it, a tie at the edge of the interval. |
 | **An open 14B model matches a hackathon-winning air traffic parser on unseen airports, and beats neither it nor Claude**<br>[Read the note](https://albertlieyingadrian.github.io/steerlab/experiments/gmaps/report/) · [folder](experiments/gmaps/) · [data](experiments/gmaps/results/summary.json) · [reproduce](experiments/gmaps/reproduce.sh) · [training](experiments/gmaps/kaggle_job.py) | Without data from the test airports, can an open model match or beat the GMAPS hackathon winner and the frontier at parsing tower radio? | A Prague-free Qwen3-14B QLoRA scores 70.5% full-record accuracy on 288 ATCO2 test transmissions: the winner 70.1%, Claude Fable 5.2 and Opus 5.5 68.4%, all ties. Rule-based pilot read-backs replace the Prague pilot speech and are worth +7.3 points. |

diff --git a/experiments/cua-driver/README.md b/experiments/cua-driver/README.md
@@ -1,7 +1,7 @@
 # cua-driver: an open macOS computer-use driver on Cua Driver Bench
 
-An open driver built from the ideas Aside describes (accessibility tree, background-first input, one JavaScript
-`repl` tool, a diff after every action), run on Scale's exact AgentEnv setup for Aside's 88/90 with Claude Opus 5.5,
+An open driver built from the ideas the target describes (accessibility tree, background-first input, one JavaScript
+`repl` tool, a diff after every action), run on Scale's exact AgentEnv setup for the target's 88/90 with Claude Opus 5.5,
 beside a same-day cua-driver control. Result: 49/90 against cua-driver's 67/90 (McNemar 1 vs 19, p = 4e-5).
 Note: [report/index.html](report/index.html).
 
